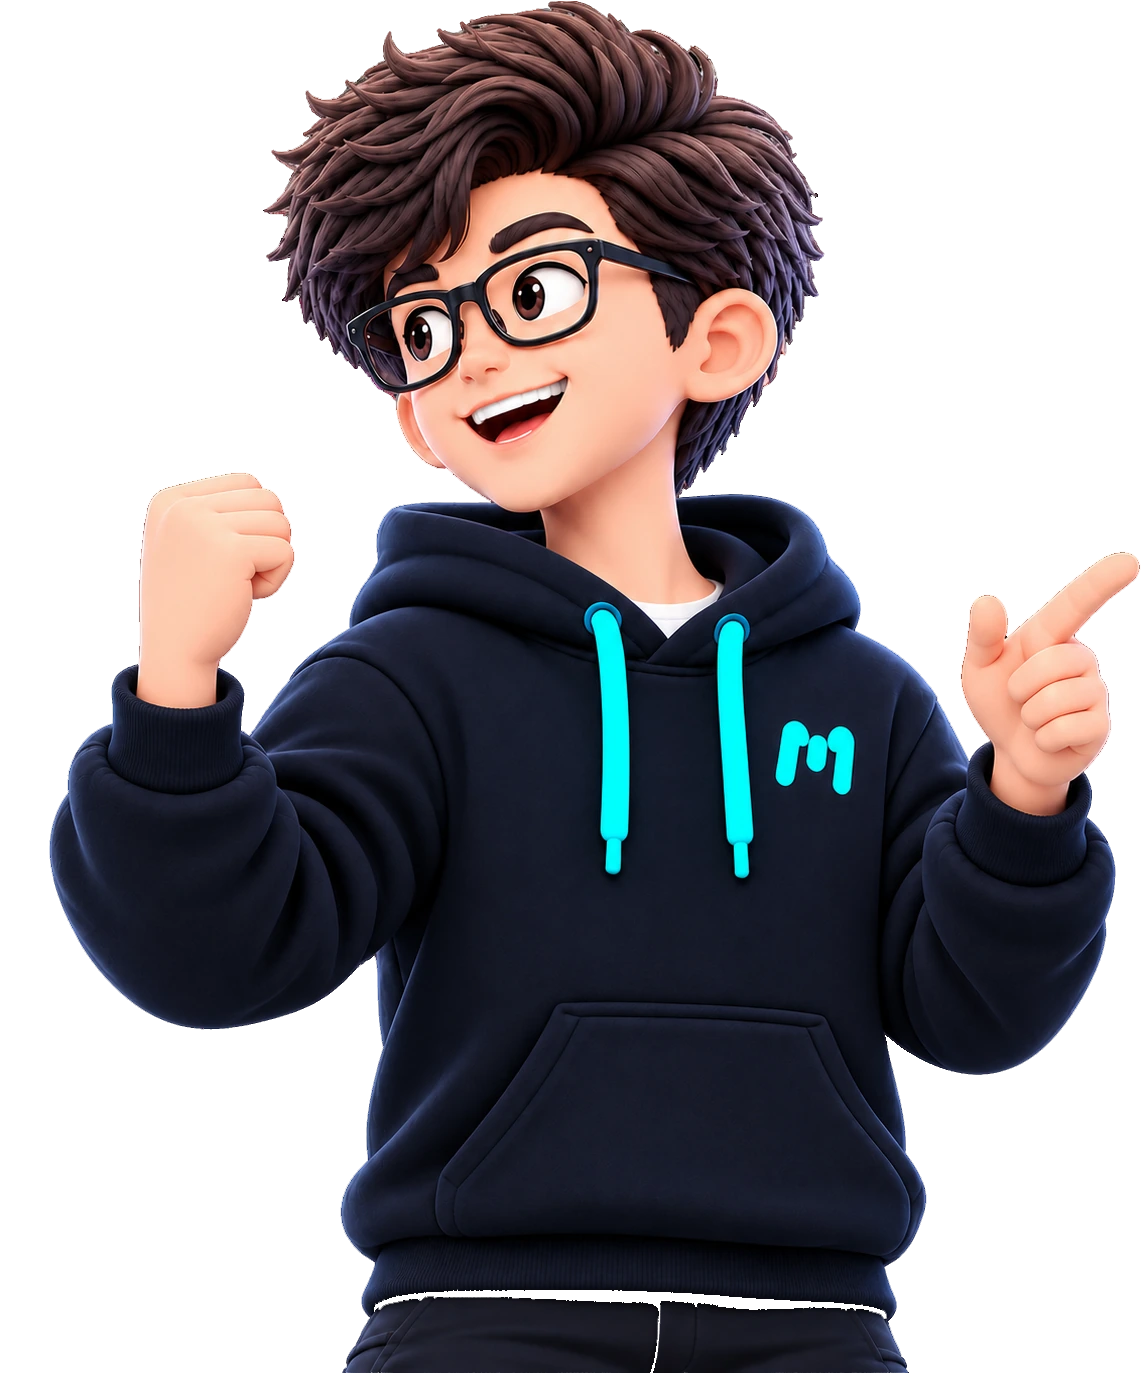
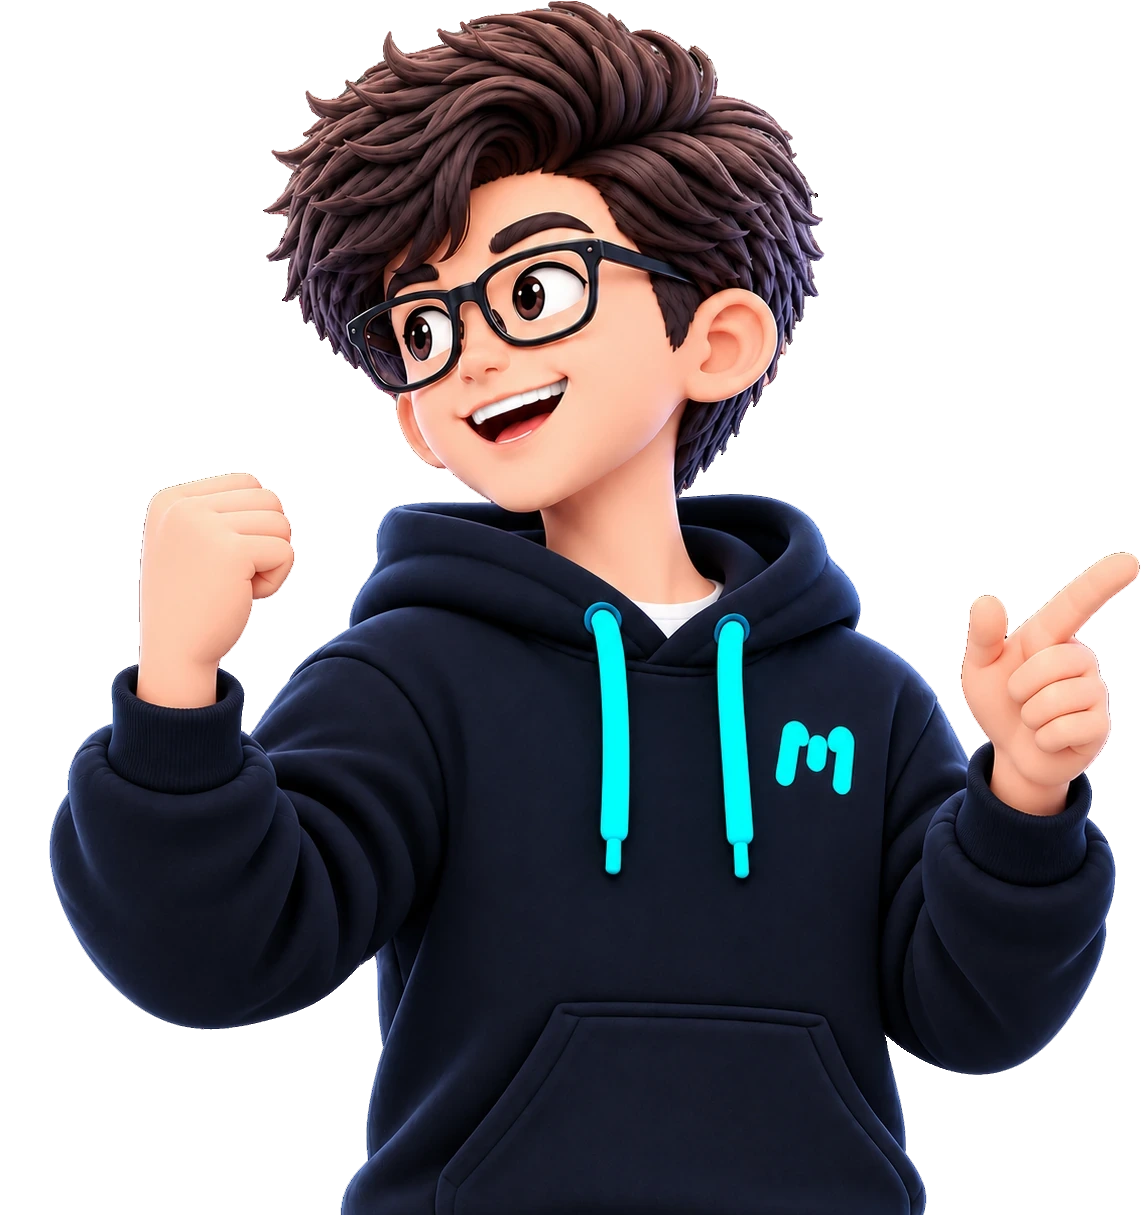
fix(home): trim waist hem to hide pants and white undershirt border

diff --git a/apps/web/src/app/(public)/HomeClient.tsx b/apps/web/src/app/(public)/HomeClient.tsx
@@ -1381,12 +1381,12 @@ export function HomeClient({
             </div>
 
             {/* Right Hero Image (Desktop: Grounded at bottom-right of 1400px card) */}
-            <div className="hidden md:block absolute right-6 lg:right-12 xl:right-16 bottom-0 pointer-events-none select-none z-10">
+            <div className="hidden md:block absolute right-6 lg:right-12 xl:right-16 -bottom-1 pointer-events-none select-none z-10">
               <Image
                 src="/hero-card-1.webp"
                 alt="Ready to Scale Infrastructure - Masdika"
                 width={1145}
-                height={1374}
+                height={1215}
                 className="w-[280px] lg:w-[330px] xl:w-[370px] h-auto object-contain object-bottom drop-shadow-[0_10px_20px_rgba(0,0,0,0.08)] dark:drop-shadow-[0_12px_24px_rgba(0,0,0,0.4)]"
                 priority={false}
               />
@@ -1398,7 +1398,7 @@ export function HomeClient({
                 src="/hero-card-1.webp"
                 alt="Ready to Scale Infrastructure - Masdika"
                 width={1145}
-                height={1374}
+                height={1215}
                 className="w-48 sm:w-56 h-auto object-contain object-bottom drop-shadow-[0_10px_20px_rgba(0,0,0,0.08)] dark:drop-shadow-[0_12px_24px_rgba(0,0,0,0.4)]"
                 priority={false}
               />
